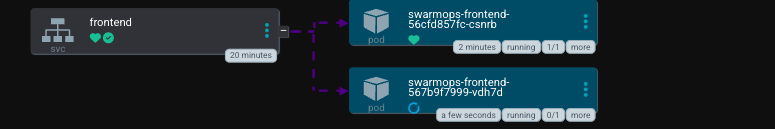
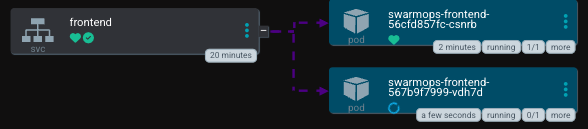
Polish pitch_v2 deployment/monitoring slides, fix image rendering bugs
Slide 17 (ArgoCD sync): drop the redundant cropped status-band, let the
full sync screenshot fill the space instead; tighten headline/lede copy.

Slide 18 (blue-green swap): crop the dead black margin out of both
pod-strip screenshots (forntend_argo_blue-green.png, frontend_argo_green.png),
fix the lede's line-wrap, correct caption gender agreement, drop the
redundant closing note.

Slide 19 (canary rollout): reworded and re-wrapped the lede over a couple
of passes to land on final copy and a clean two-line break.

Slide 20 (canary before/after): each screenshot now gets its own true
aspect ratio instead of sharing one approximation, which was letterboxing
whichever image didn't match it; updated lede wording.

Slide 21 (Grafana dashboard): switched the wide screenshot to
height-driven sizing (matching the .win.canary-steps pattern) to fix a
pillarboxing bug where the shared width/max-height auto-resolution left
gaps down both sides; reworded and re-wrapped the lede.

Slide 22 (Grafana crops): restored the "טיסה" word missing from the lede
and fixed its line-wrap.

Slide 24 (limitations): removed the two remaining em dashes in the deck,
minor wording fixes.

Slide 02 (team): dropped the closing note line.

diff --git a/pitch_v2.html b/pitch_v2.html
@@ -361,11 +361,19 @@ ul.points li.st::before{ display:none; }
    The shared four declarations are hoisted below so only the ratio and the
    width cap differ per shot. */
 .slot.map-shot{     max-width:min(720px,100%);  aspect-ratio:720/718;   }
-.slot.argo-shot{    max-width:min(1120px,100%); aspect-ratio:2028/1263; }
+.slot.argo-shot{    max-width:min(1500px,100%); aspect-ratio:2028/1263; }
 .slot.canary-shot{  max-width:min(880px,100%);  aspect-ratio:1363/1038; }
-.slot.wide-shot{    max-width:min(1500px,100%); aspect-ratio:3440/1319; }
-.slot.map-shot, .slot.argo-shot, .slot.canary-shot, .slot.wide-shot{
+.slot.map-shot, .slot.argo-shot, .slot.canary-shot{
     width:auto; height:auto; max-height:100%; min-height:0;
+}
+/* wide-shot's ratio is flat enough (2.6:1) that the width:auto/max-height:100%
+   dual-auto resolution above was leaving a visible gap down the sides on this
+   one shot specifically -- switched to the same height-driven pattern as
+   .win.canary-steps (a definite height, width derived from it) instead of
+   fighting that resolution further. */
+.slot.wide-shot{
+    height:min(44vh,560px); width:auto; max-width:100%; flex:none;
+    aspect-ratio:3440/1319;
 }
 /* The two frontend pod strips are near-banners (6:1 and 9.5:1) and carry no
    aspect-ratio at all -- the image sets the height and the frame hugs it.
@@ -376,7 +384,7 @@ ul.points li.st::before{ display:none; }
    being measured. Same width on both so their edges line up when stacked,
    even though one ends up noticeably shorter than the other. */
 .slot.pod-strip-a, .slot.pod-strip-b{
-    width:100%; height:auto;
+    width:100%; max-width:none; height:auto;
     /* Both resets are load-bearing. Without aspect-ratio:auto the base
        .slot's 16/9 still applies and each frame asks for ~480px of height;
        without flex:none the column then shrinks that back down to whatever
@@ -387,9 +395,13 @@ ul.points li.st::before{ display:none; }
 .slot.pod-strip-a img, .slot.pod-strip-b img{ height:auto; }
 /* The canary before/after pair sits in a .slots grid, which otherwise hands
    its children the default 16/9. Both sources are ~1.30 (935x723 and
-   941x712); the 2% difference between them is small enough that
-   object-fit:contain absorbs it without a visible bar. */
-.slots.canary .slot{ aspect-ratio:935/723; }
+   941x712) but NOT identical -- a shared approximate ratio here let
+   object-fit:contain letterbox a visible white bar top and bottom of
+   whichever image didn't match exactly, so each gets its own true ratio
+   instead. DOM order: first child (canary in progress2.png) then second
+   (canary_final.png). */
+.slots.canary .slot:nth-child(1){ aspect-ratio:935/723; }
+.slots.canary .slot:nth-child(2){ aspect-ratio:941/712; }
 /* Two banner strips stacked as one unit -- a plain column, since neither the
    .slots grid (equal columns) nor .strip (square tiles) describes this. */
 .pod-stack{
@@ -432,7 +444,6 @@ ul.points li.st::before{ display:none; }
     background-repeat:no-repeat;
 }
 .win.c1, .win.c2, .win.c3{ background-image:url(presentation-assets/screenshot/grafana_dashboard.png); }
-.win.argo-sync{            background-image:url(presentation-assets/screenshot/base_argo.png); }
 .win.canary-steps{         background-image:url(presentation-assets/screenshot/canary_in_progress3.png); }
 
 /* The left two-fifths of canary_in_progress3.png (1363x1038): the step
@@ -456,18 +467,6 @@ ul.points li.st::before{ display:none; }
        43vh is what is actually left under this sheet's four lines of type. */
     height:min(43vh,495px); width:auto; max-width:100%; flex:none;
     aspect-ratio:845/495; background-size:161.302% 209.697%; background-position:0% 0%;
-}
-
-/* The Argo sync header, cut out of base_argo.png (2028x1263) and shown at
-   roughly 1:1, because this band is the whole argument of its sheet: synced
-   to a commit, auto-sync on, and an author line reading swarmops-ci-bot. At
-   the scale the full tree has to be drawn at, none of that is readable.
-   The right edge is set at 1425 rather than at the card's own border so the
-   longest line on it -- the GMT timestamp -- clears with room to spare; an
-   earlier 1330 sliced it mid-word.            rect 265,115 1160x135 */
-.win.argo-sync{
-    max-width:min(1150px,100%);
-    aspect-ratio:1160/135; background-size:174.828% 935.556%; background-position:30.530% 10.195%;
 }
 
 .crops{
@@ -697,7 +696,6 @@ body.editing .figure text{ outline:1px dashed var(--accent); outline-offset:2px;
         </figcaption>
       </figure>
     </div>
-    <p class="note reveal">שלושתנו שירתנו בתפקיד קרבי, כל אחד בתפקיד אחר.</p>
   </div>
 </section>
 
@@ -1273,17 +1271,12 @@ body.editing .figure text{ outline:1px dashed var(--accent); outline-offset:2px;
   </div>
   <div class="main">
     <p class="kicker reveal">הפריסה</p>
-    <h2 class="reveal">מי שמריץ את זה הוא בוט</h2>
+    <h2 class="reveal">מי שמריץ את זה הוא "בוט"</h2>
     <div class="rule reveal"></div>
-    <p class="lede reveal">כל השירותים בשרת מסונכרנים אוטומטית לקוד. אף אדם לא נגע בהם.</p>
-    <!-- Same file twice, on purpose, and as two SIBLINGS rather than nested
-         in a wrapper: .main is the flex column that .slot's max-height:100%
-         is written against, and putting the slot one level deeper collapsed
-         it to a third of its size. The band is the evidence, cut out so it
-         stays readable; the tree below is texture -- at the size a sheet can
-         give it, it says "a lot of services, all healthy" and nothing more,
-         which is exactly its job here. -->
-    <div class="win argo-sync reveal" role="img" aria-label="ארגו סי-די: מסונכרן לקומיט, סנכרון אוטומטי פעיל, והמסנכרן הוא בוט ה-CI"></div>
+    <p class="lede reveal">כל השירותים בשרת מסונכרנים אוטומטית לקוד. אף אדם לא משנה אותם ידנית.</p>
+    <!-- The cropped status band was dropped: one full screenshot, given the
+         whole sheet, reads better than a legible band fighting a small tree
+         for room. -->
     <div class="slot filled argo-shot reveal">
       <img src="presentation-assets/screenshot/base_argo.png" alt="מסך ארגו סי-די: כל שירותי SwarmOps תקינים ומסונכרנים">
       <!-- Kept to two words: the frame here is small, and .s-note's 55% cap
@@ -1310,7 +1303,7 @@ body.editing .figure text{ outline:1px dashed var(--accent); outline-offset:2px;
     <p class="kicker reveal">הפריסה</p>
     <h2 class="reveal">גרסה חדשה נכנסת, ואיש לא מרגיש</h2>
     <div class="rule reveal"></div>
-    <p class="lede reveal">הישן ממשיך לרוץ עד שהחדש מוכן. רק אז הוא נעלם.</p>
+    <p class="lede reveal" style="max-width:none">הגרסה הישנה ממשיכה לרוץ עד שהחדשה מוכנה.<br>רק אז הישנה נעלמת.</p>
     <!-- Captions sit BELOW these two rather than as the usual .s-note corner
          badge: on a 6:1 banner there is no empty corner to put a badge in,
          and overlaid it lands squarely on the pods it is describing. -->
@@ -1319,16 +1312,15 @@ body.editing .figure text{ outline:1px dashed var(--accent); outline-offset:2px;
         <div class="slot filled pod-strip-a">
           <img src="presentation-assets/screenshot/forntend_argo_blue-green.png" alt="שני עותקים של הממשק רצים במקביל, הישן והחדש">
         </div>
-        <span class="c-cap">הישן והחדש רצים יחד</span>
+        <span class="c-cap">הישנה והחדשה רצות יחד</span>
       </div>
       <div class="crop">
         <div class="slot filled pod-strip-b">
           <img src="presentation-assets/screenshot/frontend_argo_green.png" alt="עותק אחד של הממשק, החדש בלבד">
         </div>
-        <span class="c-cap">נשאר רק החדש</span>
+        <span class="c-cap">נשארה רק החדשה</span>
       </div>
     </div>
-    <p class="note reveal">אפס זמן השבתה — המשתמש לא רואה שום הפסקה.</p>
   </div>
 </section>
 
@@ -1345,9 +1337,9 @@ body.editing .figure text{ outline:1px dashed var(--accent); outline-offset:2px;
     <p class="kicker reveal">הפריסה</p>
     <h2 class="reveal">קודם ל-20%, ורק אז לכולם</h2>
     <div class="rule reveal"></div>
-    <p class="lede reveal">הגרסה החדשה של שירות התכנון נחשפת בשלבים, עם בדיקה אוטומטית ביניהם.</p>
+    <p class="lede reveal" style="max-width:none">הגרסה החדשה עולה בשלבים,<br>עם בדיקה אוטומטית בין כל שלב.</p>
     <div class="win canary-steps reveal" role="img" aria-label="השקה מדורגת: 20 אחוז, בדיקה, 50 אחוז, בדיקה, 100 אחוז"></div>
-    <p class="note reveal">אם הבדיקה מזהה חריגה, הפריסה נעצרת וחוזרת אחורה לבד.</p>
+    <p class="note reveal">אם הבדיקה מזהה חריגה, הפריסה נעצרת וחוזרת למצב הקודם אוטומטית.</p>
   </div>
 </section>
 
@@ -1367,18 +1359,18 @@ body.editing .figure text{ outline:1px dashed var(--accent); outline-offset:2px;
     <p class="kicker reveal">הפריסה</p>
     <h2 class="reveal">שתי גרסאות, ואז אחת</h2>
     <div class="rule reveal"></div>
-    <p class="lede reveal">באמצע ההשקה שתי הגרסאות חיות במקביל. בסיום, הישנה מתפנה.</p>
+    <p class="lede reveal">באמצע ההשקה שתי הגרסאות חיות במקביל. בסיום, הישנה נעלמת.</p>
     <div class="slots canary reveal">
       <div class="slot filled">
         <!-- %20, not a raw space: the filename really is "canary in
              progress2.png". Left un-renamed so the asset folder still matches
              what was handed over. -->
         <img src="presentation-assets/screenshot/canary%20in%20progress2.png" alt="באמצע ההשקה: הגרסה החדשה והישנה רצות יחד">
-        <span class="s-note">באמצע ההשקה — ישן וחדש יחד</span>
+        <span class="s-note">באמצע ההשקה · ישן וחדש יחד</span>
       </div>
       <div class="slot filled">
         <img src="presentation-assets/screenshot/canary_final.png" alt="בסיום ההשקה: הגרסה הישנה ירדה לגמרי">
-        <span class="s-note">בסיום — הישן ירד</span>
+        <span class="s-note">בסיום · הישן ירד</span>
       </div>
     </div>
   </div>
@@ -1397,7 +1389,7 @@ body.editing .figure text{ outline:1px dashed var(--accent); outline-offset:2px;
     <p class="kicker reveal">ניטור</p>
     <h2 class="reveal">לדעת לפני שמישהו מתלונן</h2>
     <div class="rule reveal"></div>
-    <p class="lede reveal">כל שירות מדווח על עצמו. כשמשהו חורג, המערכת מתריעה לבד.</p>
+    <p class="lede reveal" style="max-width:none">כל שירות הוא מנוטר.<br>כשמשהו חורג, מערכת הניטור מתריעה לבד.</p>
     <div class="slot filled wide-shot reveal">
       <img src="presentation-assets/screenshot/grafana_dashboard.png" alt="לוח מחוונים של גרפנה עם מדדי המערכת">
       <span class="s-note">Grafana · לוח המחוונים של SwarmOps</span>
@@ -1423,7 +1415,7 @@ body.editing .figure text{ outline:1px dashed var(--accent); outline-offset:2px;
     <p class="kicker reveal">ניטור</p>
     <h2 class="reveal">מה בעצם נמדד</h2>
     <div class="rule reveal"></div>
-    <p class="lede reveal">לא רק אם המערכת חיה, אלא כמה בקשות, כמה כשלונות, וכמה זמן לוקח לחשב תוכנית.</p>
+    <p class="lede reveal" style="max-width:none">לא רק אם המערכת חיה, אלא כמה בקשות,<br>כמה כשלונות, וכמה זמן לוקח לחשב תוכנית טיסה.</p>
     <div class="crops reveal">
       <div class="crop">
         <div class="win c1" role="img" aria-label="עשרה מתוך שנים עשר רכיבים מדווחים כחיים"></div>
@@ -1485,7 +1477,7 @@ body.editing .figure text{ outline:1px dashed var(--accent); outline-offset:2px;
       </div>
       <div class="card risk">
         <span class="h">השקט הוא הסכנה</span>
-        <span class="d">כשמשהו קורס, מיד יודעים. כשמשהו טועה בשקט, מגלים מאוחר מדי, לכן חשוב לוודא שאנחנו בודקים את הקוד ולא "לדחוף" לפני בדיקה.</span>
+        <span class="d">כשמשהו קורס, מיד יודעים. כשמשהו מתקלקל בשקט, מגלים מאוחר מדי, לכן חשוב לוודא שאנחנו בודקים את הקוד ולא "לדחוף" לפני בדיקה.</span>
       </div>
       <div class="card">
         <span class="h">ניהול גרסאות בצוות</span>
